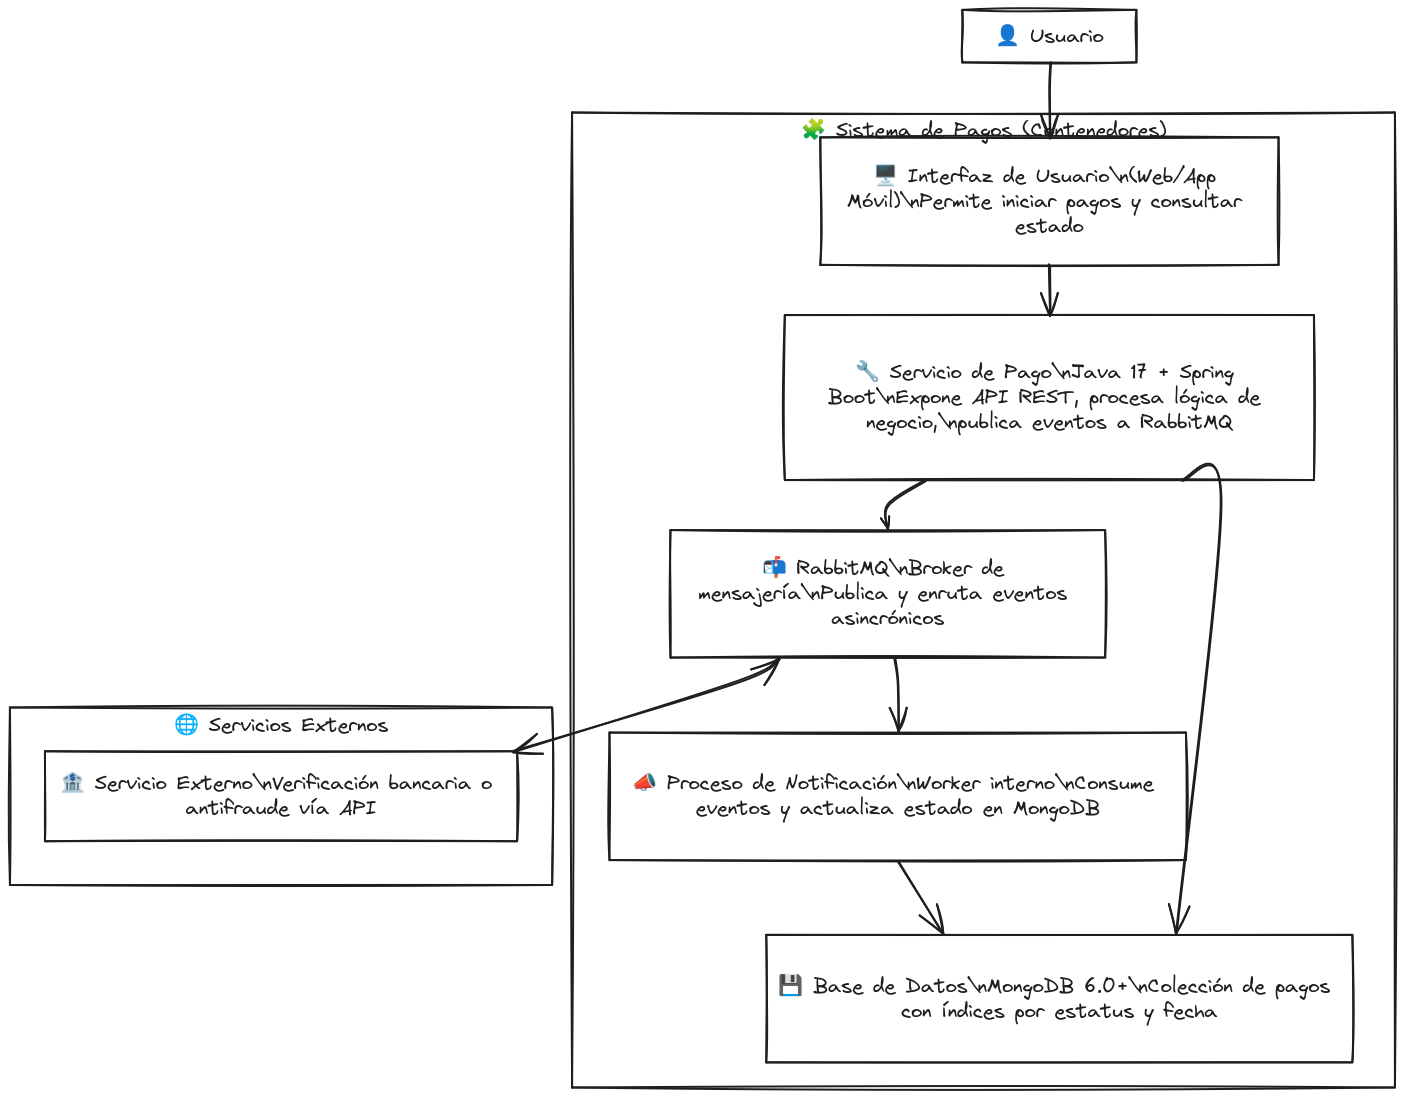
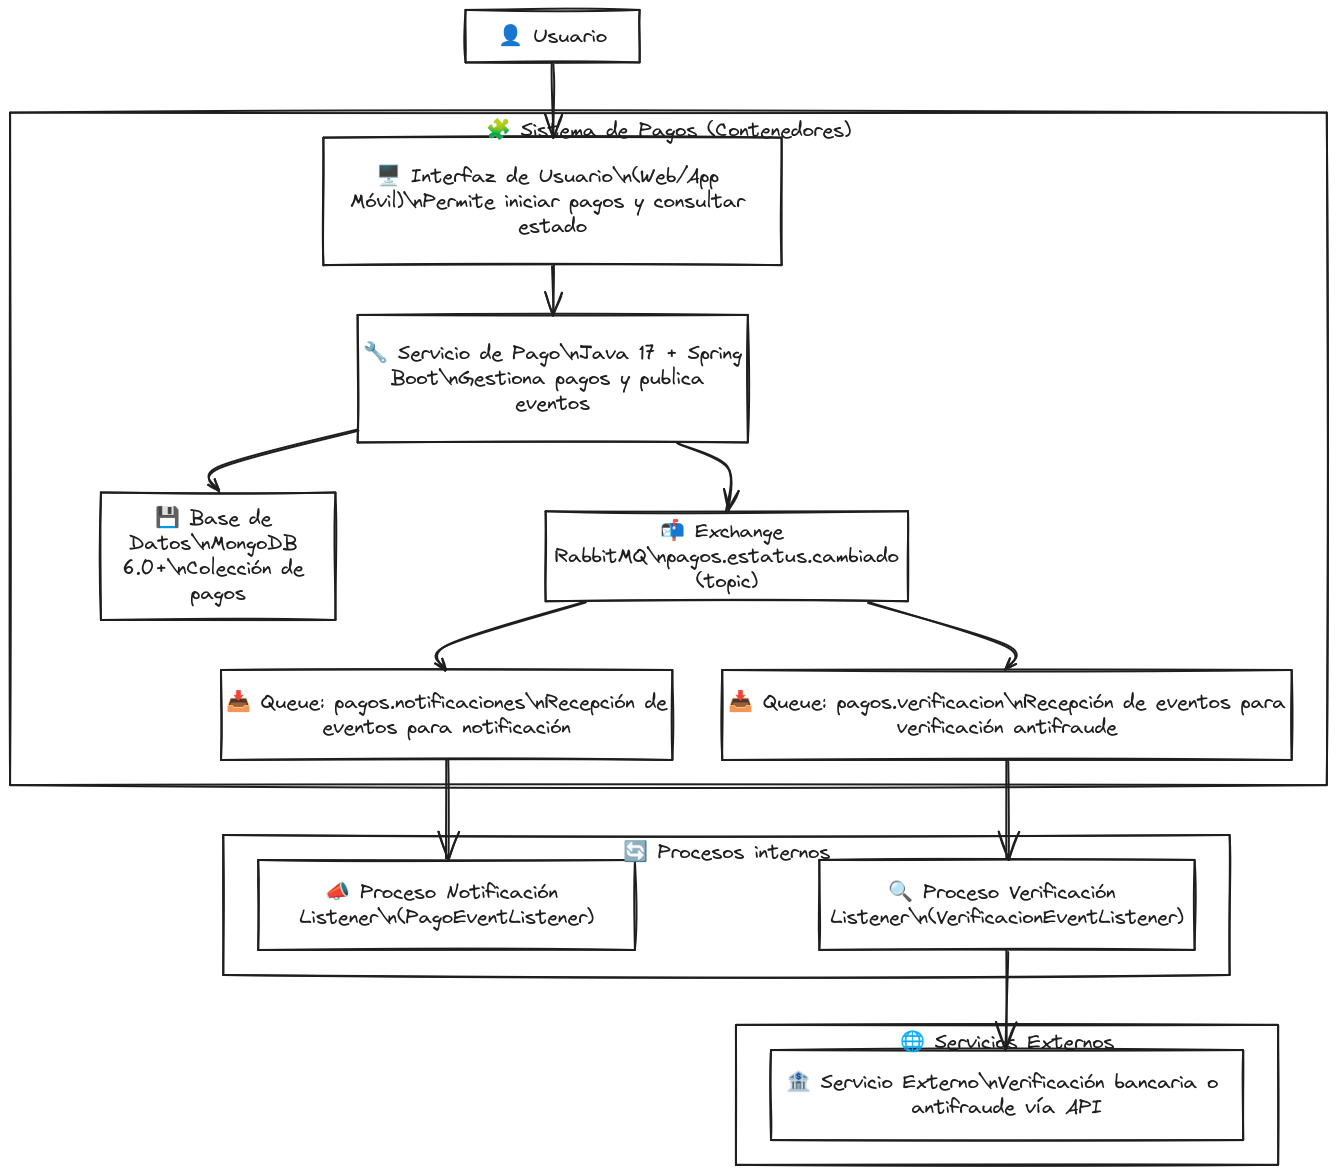
actualización de README

diff --git a/README.md b/README.md
@@ -213,12 +213,13 @@ A continuación, se presentan algunos aspectos a considerar durante el desarroll
 
 ## Diseño de la Arquitectura 
 
-A continuación, se presentan los componentes principales de la arquitectura del proyecto: 
+A continuación, se presentan los componentes principales de la arquitectura del proyecto:
 
-     Servicio de Pago: Es el servicio principal que permite registrar un pago y cambiar el estatus del pago.
-     Base de Datos: Es la base de datos que almacena los datos de los pagos.
-     RabbitMQ: Es el mensaje broker que se utiliza para notificar a los procesos cuando se cambie el estatus del pago.
-     Proceso de Notificación: Es el proceso que recibe los mensajes de cambio de estatus del pago desde RabbitMQ y actualiza el estatus correspondiente en la base de datos.
+- **Servicio de Pago (SP):** Gestiona el registro y cambio de estatus de pagos, publica eventos a RabbitMQ.
+- **Base de Datos (BD):** MongoDB para almacenar los datos de pagos de forma persistente.
+- **RabbitMQ (RMQ):** Broker de mensajería para propagar cambios de estatus de forma desacoplada.
+- **Proceso de Notificación (PN):** Consumer que recibe eventos de RabbitMQ y procesa notificaciones internas.
+- **Proceso de Verificación (PV):** Segundo Consumer que procesa eventos para iniciar verificación antifraude.
      
 
 ### Capas de la Aplicación 
@@ -232,13 +233,12 @@ La aplicación tiene las siguientes capas:
 
 ### Componentes 
 
-A continuación, se presentan algunos componentes importantes en la arquitectura del proyecto: 
+- **Servicio de Pago (SP):** Exposición de APIs REST para registrar y cambiar estatus de pagos.
+- **Base de Datos (BD):** Persistencia de pagos usando MongoDB.
+- **RabbitMQ (RMQ):** Orquestación de eventos de cambio de estatus mediante exchange tipo topic.
+- **Proceso de Notificación (PN):** Consumer que procesa eventos de cambios para notificaciones.
+- **Proceso de Verificación (PV):** Consumer que procesa eventos para iniciar validaciones antifraude o validaciones adicionales.
 
-     Servicio de Pago (SP): Es el componente que permite registrar un pago y cambiar el estatus del pago.
-     Base de Datos (BD): Es el componente que almacena los datos de los pagos.
-     RabbitMQ (RMQ): Es el componente que se utiliza para notificar a los procesos cuando se cambie el estatus del pago.
-     Proceso de Notificación (PN): Es el componente que recibe los mensajes de cambio de estatus del pago desde RabbitMQ y actualiza el estatus correspondiente en la base de datos.
-     
 
 ### Diagramas
 
@@ -247,16 +247,23 @@ A continuación, se presenta un diagrama de contenedores con correspondencia al 
 ```mermaid
 graph TD
 
-    %% Persona
+    %% Personas
     Usuario[/"👤 Usuario"/]
 
     %% Sistema principal
     subgraph "🧩 Sistema de Pagos (Contenedores)"
         UI["🖥 Interfaz de Usuario\n(Web/App Móvil)\nPermite iniciar pagos y consultar estado"]
-        SP["🔧 Servicio de Pago\nJava 17 + Spring Boot\nExpone API REST, procesa lógica de negocio,\npublica eventos a RabbitMQ"]
-        BD["💾 Base de Datos\nMongoDB 6.0+\nColección de pagos con índices por estatus y fecha"]
-        RMQ["📬 RabbitMQ\nBroker de mensajería\nPublica y enruta eventos asincrónicos"]
-        PN["📣 Proceso de Notificación\nWorker interno\nConsume eventos y actualiza estado en MongoDB"]
+        SP["🔧 Servicio de Pago\nJava 17 + Spring Boot\nGestiona pagos y publica eventos"]
+        BD["💾 Base de Datos\nMongoDB 6.0+\nColección de pagos"]
+        EX["📬 Exchange RabbitMQ\npagos.estatus.cambiado (topic)"]
+        QN["📥 Queue: pagos.notificaciones\nRecepción de eventos para notificación"]
+        QV["📥 Queue: pagos.verificacion\nRecepción de eventos para verificación antifraude"]
+    end
+
+    %% Consumidores internos
+    subgraph "🔄 Procesos internos"
+        PN["📣 Proceso Notificación Listener\n(PagoEventListener)"]
+        PV["🔍 Proceso Verificación Listener\n(VerificacionEventListener)"]
     end
 
     %% Sistema externo
@@ -268,14 +275,17 @@ graph TD
     Usuario --> UI
     UI --> SP
     SP --> BD
-    SP --> RMQ
-    RMQ --> PN
-    PN --> BD
-    RMQ <--> SE
+    SP --> EX
+    EX --> QN
+    EX --> QV
+    QN --> PN
+    QV --> PV
+    PV --> SE
 
 ```
      
 ![image](./docs/img/diagrama-1_2.png)
 
 
+> **Nota:** El evento de cambio de estatus publicado por el Servicio de Pago es enviado a dos colas distintas. Esto permite que múltiples procesos internos (notificación y verificación) reaccionen de forma desacoplada, siguiendo un patrón de Event-Driven Architecture (EDA).
 
